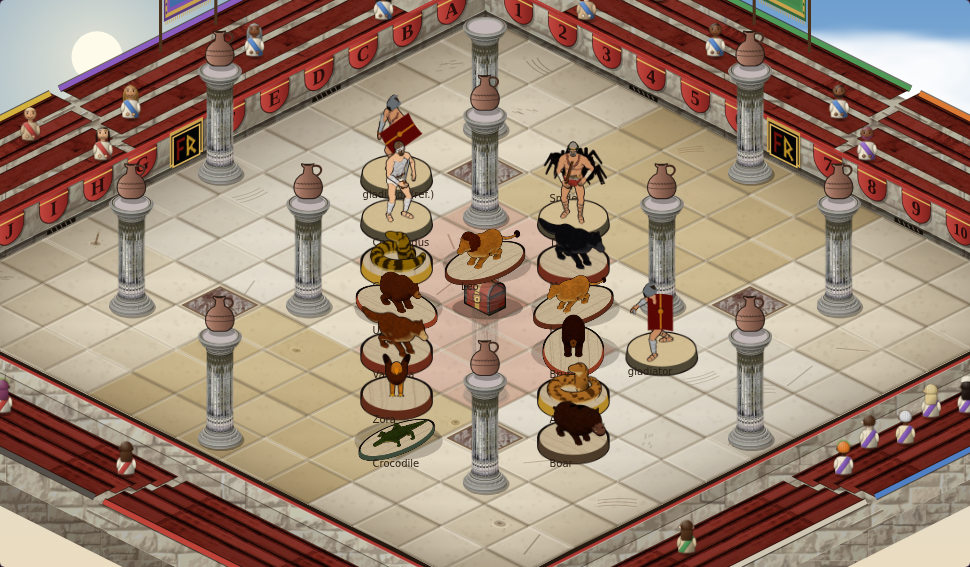
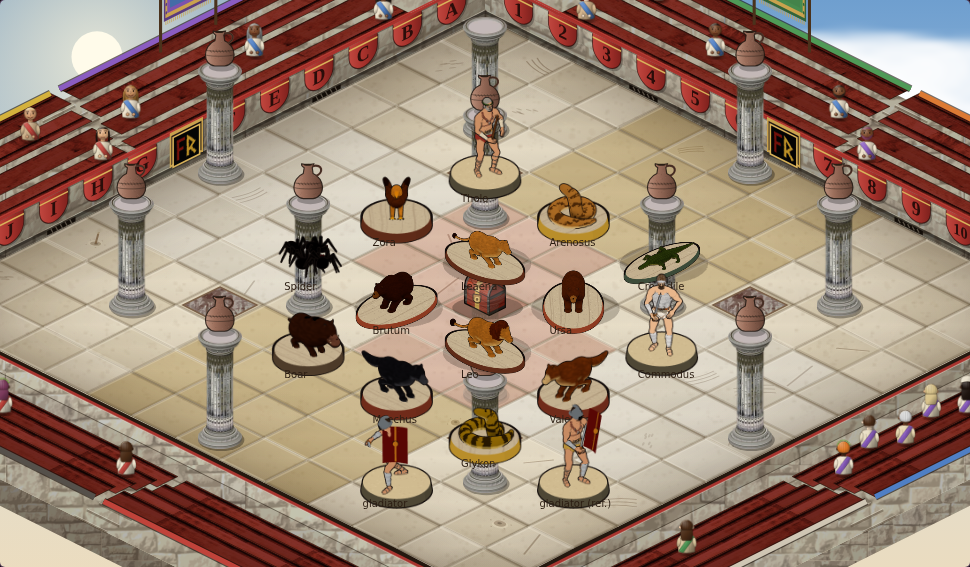
look100: 3D beasts look test (14 beasts, frames, clip) [skip ci]
Claude-Session: https://claude.ai/code/session_01BLtNGuDrMd265uhsDUPs5S

Changed region(s): [[0.2784, 0.1499, 0.7423, 0.8995], [0.6804, 0.6596, 0.7113, 0.6896]]

diff --git a/tools/plans/look100/arena_proto.js b/tools/plans/look100/arena_proto.js
@@ -112,25 +112,26 @@ function railBronze(g,R){const h=R.Hc*0.86,pw=Math.max(1.2,TW*0.028),rt=Math.max
     g.lineCap='round';g.strokeStyle='#4a2e0e';g.lineWidth=rt+1;g.beginPath();g.moveTo(p.x,p.y-h+0.8);g.lineTo(q.x,q.y-h+0.8);g.stroke();
     g.strokeStyle='#b07a32';g.lineWidth=rt;g.beginPath();g.moveTo(p.x,p.y-h);g.lineTo(q.x,q.y-h);g.stroke();
     g.strokeStyle='rgba(255,226,150,.9)';g.lineWidth=Math.max(0.7,rt*0.35);g.beginPath();g.moveTo(p.x+iv.x,p.y-h-rt*0.25+iv.y);g.lineTo(q.x+iv.x,q.y-h-rt*0.25+iv.y);g.stroke();g.lineCap='butt'}}
-function railBalus(g,R){const h=R.Hc*0.94,pl=h*0.2,cp=Math.max(1.6,h*0.17);const iv=inV(R,TW*0.05);const stoneC=ar91Mat().cap;
+function railBalus(g,R){const h=R.Hc*0.98,pl=Math.max(1.6,h*0.2),cp=Math.max(1.8,h*0.2);const iv=inV(R,TW*0.05);const capC=hex(ar91Mat().cap),lt=rgb(mix(capC,[255,252,240],0.55)),md=rgb(mix(capC,[236,226,206],0.3)),dk=rgb(mix(capC,[70,52,32],0.55));
   for(const [p,q] of segs(R)){const L=Math.hypot(q.x-p.x,q.y-p.y);
-    g.fillStyle='rgba(30,18,8,.25)';ar91Path(g,[p,q,{x:q.x+TW*0.06,y:q.y+TW*0.04},{x:p.x+TW*0.06,y:p.y+TW*0.04}]);g.fill();
-    /* the plinth */
-    ar91Stone(g,[{x:p.x,y:p.y-pl},{x:q.x,y:q.y-pl},q,p],R.left?'rgba(255,248,230,.06)':'rgba(40,28,16,.22)');
-    /* balusters: a vase profile (neck · belly · foot) */
-    const bw=Math.max(2.2,TW*0.05),step=Math.max(bw*1.9,R.tile*0.16),n=Math.max(2,Math.floor(L/step));
+    g.fillStyle='rgba(30,18,8,.28)';ar91Path(g,[p,q,{x:q.x+TW*0.06,y:q.y+TW*0.04},{x:p.x+TW*0.06,y:p.y+TW*0.04}]);g.fill();
+    /* the dark void behind the balusters (the near wall in shadow) */
+    g.fillStyle='rgba(36,24,14,.55)';ar91Path(g,[{x:p.x,y:p.y-h},{x:q.x,y:q.y-h},q,p]);g.fill();
+    /* the plinth: a solid light stone strip */
+    ar91Path(g,[{x:p.x,y:p.y-pl},{x:q.x,y:q.y-pl},q,p]);g.fillStyle=md;g.fill();g.strokeStyle='rgba(40,28,16,.55)';g.lineWidth=0.7;g.stroke();
+    /* balusters: a vase profile (neck · belly · foot), lit from the left */
+    const bw=Math.max(2.6,TW*0.065),step=Math.max(bw*1.55,R.tile*0.13),n=Math.max(2,Math.floor(L/step));
     for(let i=0;i<n;i++){const t=(i+0.5)/n,x=p.x+(q.x-p.x)*t,y=p.y+(q.y-p.y)*t-pl,bh=h-pl-cp;
-      const gr=g.createLinearGradient(x-bw/2,0,x+bw/2,0);gr.addColorStop(0,'rgba(255,252,240,1)');gr.addColorStop(.5,stoneC);gr.addColorStop(1,'rgba(120,100,76,1)');
-      g.fillStyle=gr;g.beginPath();g.moveTo(x-bw*0.42,y);g.lineTo(x+bw*0.42,y);g.quadraticCurveTo(x+bw*0.62,y-bh*0.35,x+bw*0.22,y-bh*0.72);g.lineTo(x+bw*0.3,y-bh);g.lineTo(x-bw*0.3,y-bh);g.lineTo(x-bw*0.22,y-bh*0.72);g.quadraticCurveTo(x-bw*0.62,y-bh*0.35,x-bw*0.42,y);g.closePath();g.fill();
-      g.strokeStyle='rgba(60,44,28,.45)';g.lineWidth=0.6;g.stroke()}
-    /* the coping: front face + top face toward the sand */
-    const T0={x:p.x,y:p.y-h},T1={x:q.x,y:q.y-h};ar91Stone(g,[{x:T0.x,y:T0.y},{x:T1.x,y:T1.y},{x:T1.x,y:T1.y+cp},{x:T0.x,y:T0.y+cp}],R.left?'rgba(255,248,230,.06)':'rgba(40,28,16,.2)');
-    ar91Stone(g,[{x:T0.x+iv.x,y:T0.y+iv.y},{x:T1.x+iv.x,y:T1.y+iv.y},T1,T0],'rgba(255,250,236,.25)');
-    g.strokeStyle='rgba(40,28,16,.5)';g.lineWidth=0.8;g.beginPath();g.moveTo(T0.x,T0.y+cp);g.lineTo(T1.x,T1.y+cp);g.stroke();
-    g.strokeStyle='rgba(255,250,236,.6)';g.beginPath();g.moveTo(T0.x,T0.y+0.5);g.lineTo(T1.x,T1.y+0.5);g.stroke();
-    /* end posts (pedestals) at both ends of a run */
-    for(const E of [p,q]){const pw=bw*1.5;ar91Stone(g,[{x:E.x-pw,y:E.y-h-cp*0.4},{x:E.x+pw,y:E.y-h-cp*0.4},{x:E.x+pw,y:E.y},{x:E.x-pw,y:E.y}],'rgba(40,28,16,.12)');
-      g.strokeStyle='rgba(40,28,16,.45)';g.lineWidth=0.8;g.strokeRect(E.x-pw,E.y-h-cp*0.4,pw*2,h+cp*0.4)}}}
+      const gr=g.createLinearGradient(x-bw/2,0,x+bw/2,0);gr.addColorStop(0,lt);gr.addColorStop(.55,md);gr.addColorStop(1,dk);
+      g.fillStyle=gr;g.beginPath();g.moveTo(x-bw*0.4,y);g.lineTo(x+bw*0.4,y);g.quadraticCurveTo(x+bw*0.7,y-bh*0.38,x+bw*0.2,y-bh*0.74);g.lineTo(x+bw*0.34,y-bh);g.lineTo(x-bw*0.34,y-bh);g.lineTo(x-bw*0.2,y-bh*0.74);g.quadraticCurveTo(x-bw*0.7,y-bh*0.38,x-bw*0.4,y);g.closePath();g.fill();
+      g.strokeStyle='rgba(50,36,22,.6)';g.lineWidth=0.6;g.stroke()}
+    /* the coping (handrail): solid light stone, front face + a lit top edge */
+    const T0={x:p.x,y:p.y-h},T1={x:q.x,y:q.y-h};ar91Path(g,[{x:T0.x+iv.x*0.5,y:T0.y+iv.y*0.5},{x:T1.x+iv.x*0.5,y:T1.y+iv.y*0.5},T1,T0]);g.fillStyle=lt;g.fill();
+    ar91Path(g,[T0,T1,{x:T1.x,y:T1.y+cp},{x:T0.x,y:T0.y+cp}]);g.fillStyle=md;g.fill();g.fillStyle=R.left?'rgba(255,250,236,.12)':'rgba(40,28,16,.18)';g.fill();
+    g.strokeStyle='rgba(40,28,16,.6)';g.lineWidth=0.7;g.beginPath();g.moveTo(T0.x,T0.y+cp);g.lineTo(T1.x,T1.y+cp);g.stroke();
+    /* end pedestals */
+    for(const E of [p,q]){const pw=bw*0.9;ar91Path(g,[{x:E.x-pw,y:E.y-h-cp*0.5},{x:E.x+pw,y:E.y-h-cp*0.5},{x:E.x+pw,y:E.y},{x:E.x-pw,y:E.y}]);g.fillStyle=md;g.fill();g.strokeStyle='rgba(40,28,16,.55)';g.lineWidth=0.7;g.stroke();
+      g.fillStyle=lt;g.fillRect(E.x-pw-0.5,E.y-h-cp*0.5-1,pw*2+1,1.5)}}}
 function railParapet(g,R){const h=R.Hc*0.96,wall=h*0.62,iv=inV(R,TW*0.06);
   for(const [p,q] of segs(R)){const L=Math.hypot(q.x-p.x,q.y-p.y);
     g.fillStyle='rgba(30,18,8,.25)';ar91Path(g,[p,q,{x:q.x+TW*0.06,y:q.y+TW*0.04},{x:p.x+TW*0.06,y:p.y+TW*0.04}]);g.fill();
@@ -153,7 +154,7 @@ function railParapet(g,R){const h=R.Hc*0.96,wall=h*0.62,iv=inV(R,TW*0.06);
 const RAIL={bronze:railBronze,balus:railBalus,parapet:railParapet};
 ar91Under=function(g){const r=B.under.apply(this,arguments);if(PR.rail&&!ar91Lud()){try{for(const R of railEdges())RAIL[PR.rail](g,R)}catch(e){console.error(e)}}return r};
 /* ---------- switch + measure ---------- */
-PR.set=function(o){Object.assign(PR,o);AR91.ver++;for(const k in AR91TEX)delete AR91TEX[k];try{if(typeof Z99!=='undefined'&&Z99&&Z99.cache)Z99.cache=null}catch(e){}draw();draw()};
+PR.set=function(o){Object.assign(PR,o);for(const id of ['cardShow','bubbles','wbubs','tip']){const e=document.getElementById(id);if(e){if(id==='tip')e.style.display='none';else e.innerHTML=''}}AR91.ver++;for(const k in AR91TEX)delete AR91TEX[k];try{if(typeof Z99!=='undefined'&&Z99&&Z99.cache)Z99.cache=null}catch(e){}draw();draw()};
 /* one cached frame vs one rebuild (all static layers re-baked) */
 PR.cost=function(n=12){const cachedA=[],rebuildA=[];for(let i=0;i<n;i++){draw();let t=performance.now();draw();cachedA.push(performance.now()-t);AR91.ver++;t=performance.now();draw();rebuildA.push(performance.now()-t)}
   const med=a=>{a=a.slice().sort((x,y)=>x-y);return +a[a.length>>1].toFixed(2)};return {cached:med(cachedA),rebuild:med(rebuildA),under:+(AR91.ms[0]||0).toFixed(2),top:+(AR91.ms[1]||0).toFixed(2),texMs:+(PR.texMs||0).toFixed(1)}};

diff --git a/tools/plans/look100/beast_comp.js b/tools/plans/look100/beast_comp.js
@@ -49,11 +49,11 @@
   const clearOf = (B) => (r, c) => { for (const [or, oc] of B.occ) { const dx = (oc - or) - (c - r), dy = (oc + or) - (c + r); if (Math.abs(dx) <= 1 && dy >= 1 && dy <= 4) return false; } return true; };
   function board(B, shot, SH, G) {
     const free = freeTile(B), clr = clearOf(B); const inV = (p) => p.x > B.canvas.x + 50 && p.x < B.canvas.x + B.canvas.w - 50 && p.y > B.canvas.y + 90 && p.y < B.canvas.y + B.canvas.h - 25;
-    const tiles = []; for (let r = 1; r < B.N - 1; r++) for (let c = 1; c < B.N - 1; c++) { const p = B.tiles[r + ',' + c]; if (free(r, c) && clr(r, c) && inV(p)) tiles.push({ r, c, p }); }
+    const tiles = []; for (let r = 1; r < B.N - 1; r++) for (let c = 1; c < B.N - 1; c++) { const p = B.tiles[r + ',' + c]; if (free(r, c) && r % 2 === 1 && c % 2 === 1 && inV(p)) tiles.push({ r, c, p }); }
     /* spread them: greedy farthest-apart from the centre outwards */
     const want = [...ORDER, 'glad', 'glad2']; const pick = []; const cx = B.canvas.x + B.canvas.w / 2, cy = B.canvas.y + B.canvas.h * 0.55;
     tiles.sort((a, b) => Math.hypot(a.p.x - cx, a.p.y - cy) - Math.hypot(b.p.x - cx, b.p.y - cy));
-    for (const t of tiles) { if (pick.length >= want.length) break; if (pick.some(q => Math.abs(q.r - t.r) + Math.abs(q.c - t.c) < 2)) continue; pick.push(t); }
+    for (const t of tiles) { if (pick.length >= want.length) break;  pick.push(t); }
     const c = cnv(B.canvas.w, B.canvas.h); const g = c.getContext('2d'); g.drawImage(shot, B.canvas.x, B.canvas.y, B.canvas.w, B.canvas.h, 0, 0, B.canvas.w, B.canvas.h);
     const items = pick.map((t, i) => ({ t, k: want[i] })).sort((a, b) => a.t.p.y - b.t.p.y);
     const yaws = [1, 7, 0, 1, 7, 1, 0, 7, 1, 0, 1, 7, 1, 0, 1, 7];

diff --git a/tools/plans/look100/NOTES-look-beasts.md b/tools/plans/look100/NOTES-look-beasts.md
@@ -1,0 +1,119 @@
+# v1.0 LOOK TEST — beasts as 3D tokens with animation frames
+
+These are pictures only, not game code. Nothing in `src/` or `tools/art/rig92` was touched, and nothing is committed.
+
+## How the beasts are built
+- **Quadrupeds, snakes, the eagle and spiders: `beast_rig.js`.**
+  - Each animation frame is one signed-distance sculpt, measured in millimetres of the real mini.
+  - The sculpt is a smooth union of tapered capsules and oriented ellipsoids. It is meshed with surface nets, using the same method as `body100.js` and `r6_sculpt.js`.
+  - Each mesh is then baked like the r6 sculpts: ambient occlusion from the distance field, darker cavities, a dry-brushed highlight on convex edges, and fur / mane / feather / scale / band patterns.
+  - Drawing uses a 4-step toon ramp, an ink outline and a sun from the upper left, on his oval or round bases.
+- **Tholo and Commodus: `anim_rig.js` `humanoid()`.** They reuse the rig92 gladiator body with the murmillo's 23 frames (no shield):
+  - Tholo: laurel, club, grey beard.
+  - Commodus: silver lorica, galea, manica, greaves, sword.
+- **Sheets:** 8 MINI_YAW facings per frame (no mirroring), one row per frame, the same format as minis8 / crew96.
+- **Frame set per beast (23 frames):**
+  - idle 4
+  - walk 6 (for Zora this is the flight flap)
+  - attack 5
+  - hit 3
+  - die 5
+- **Spiders: 14 frames, with no base.** They are an offering effect, not a piece on the board.
+
+### Inventory and what each beast is modelled on
+| key | what | his reference art | base we used | attack |
+|---|---|---|---|---|
+| leo | lion (NPCT lion, maned) | minis8_leo, npccard82_leo, npcback82p_leo | oval 72×42 mm (his MINI_A footprint 58) | pounce |
+| leaena | lioness | minis8_leaena, npccard82/npcback82p_leaena | oval 72×42 | pounce |
+| ursa, brutum | bears (named per arena by 250-v98bears) | minis8_ursa/brutum, rtok ursa/brutum | oval 75×47 (his footprint 63) | maul (rears up, swipes, slams) |
+| valencia, moechus | wolves (brown / dark) | minis8_valencia/moechus, rtok | round 25.4 | lunge + bite + shake |
+| glykon, arenosus | snakes (banded / diamond) | minis8_glykon/arenosus, rtok | round 25.4 | coil, then strike with the jaw open |
+| zora | the golden eagle (NPCT zora, flies) | minis8_zora, npccard82/npcback82p_zora | round 25.4 | dive with talons forward |
+| tholo | humanoid boss | minis8_tholo, npccard82/npcback82p_tholo | round 25.4 | the gladiator attack, with a club |
+| commodus | humanoid boss | minis8_commodus, npccard82/npcback82p_commodus | round 25.4 | the gladiator attack, with a sword |
+| boar | custom-beast kind (STOCK_KIND, rtok boar), no mini | rtok boar | round 25.4 | gore |
+| croc | custom-beast kind + Naumachia hazard (rtok croc), no mini | rtok croc | oval 75×34 | jaw snap + death roll |
+| spider | the Spiders offering (11-extra) | rtok spiders | none | rears up |
+
+## Files
+| file | what |
+|---|---|
+| `beast_vs_minis.webp` | his mini (8 facings) above ours (idle, 8 facings) for every beast, at the same 3.143 px/mm |
+| `beast_strip_<key>.png` | one per beast: actions as rows, frames as columns, facings 1 and 3 |
+| `beast_<key>_sheet.webp` | the game-format sheets (all frames × 8 facings) |
+| `beast_board.png` | every beast on one real board crop with two gladiators for reference. Round bases are 0.8 tile; long bases are 1.1 tile |
+| `beast_clip_pounce.webp`, `beast_clip_frames.png` | Leo pounces on a gladiator: 46 frames × 40 ms. The pose steps every 120 ms while the base glides; the gladiator plays hit0–2 |
+| `beast_rig.js`, `beast_rig.html`, `beast_make.js`, `beast_humanoid.js`, `beast_comp.js`, `beast_board_shot.js`, `beast_board_empty.png`, `beast_board.json`, `beast_report.json` | how it was made |
+
+**Re-run order:**
+1. `node tools/plans/look100/beast_make.js render` (about 5 min)
+2. `node tools/plans/look100/beast_humanoid.js` (about 9 min)
+3. `node tools/plans/look100/beast_board_shot.js`
+4. `node tools/plans/look100/beast_make.js comp`
+
+## Sizes and times
+Sheets are rendered at the minis' 3.143 px/mm (×2 supersample) on SwiftShader, the CPU WebGL in headless Chromium. "Decoded" means cells × w × h × 4 bytes.
+
+| beast | cell | frames | WebP (q 0.8) | decoded, all | decoded, idle + walk | render |
+|---|---|---|---|---|---|---|
+| leo | 256×219 | 23 | 736 KB | 39.4 MB | 17.1 MB | 43 s (sculpting 6.4 s) |
+| leaena | 236×190 | 23 | 701 KB | 31.5 MB | 13.7 MB | 33 s |
+| ursa / brutum | 240×204 | 23 | 638 / 593 KB | 34.4 MB | 14.9 MB | 43 / 34 s |
+| valencia / moechus | 122×107 | 23 | 278 / 227 KB | 9.2 MB | 4.0 MB | 17–18 s |
+| glykon / arenosus | 110×87 | 23 | 300 / 293 KB | 6.7 MB | 2.9 MB | 15 s |
+| zora | 124×163 | 23 | 286 KB | 14.2 MB | 6.2 MB | 17 s |
+| boar | 126×106 | 23 | 209 KB | 9.4 MB | 4.1 MB | 15 s |
+| croc | 240×148 | 23 | 524 KB | 24.9 MB | 10.8 MB | 34 s |
+| spider | 50×50 | 14 | 35 KB | 1.1 MB | 0.5 MB | 6 s |
+| tholo / commodus (rig92 body) | 140–142×144 | 23 | 395 / 430 KB | 14.2–14.4 MB | 6.2 MB | 256 / 266 s (gear shells re-skinned per pose; rig92 is slower) |
+
+- **Meshes:** 12k–23k triangles per frame.
+- **Sculpting:** 0.06–0.3 s per frame. The rest of each render is the software rasteriser at about 0.5 s per facing; the gladiator round measured raster 523 ms per cell here.
+- **Memory is set by the big beasts.** Lions, bears and the croc are rendered at full mini resolution but drawn on the board at 0.43–0.51 × that size, because a long base is capped at 1.1 tile. Rendering them at the size they are drawn would cut both memory and WebP size by about 4×: a lion would drop to roughly 10 MB decoded and 180 KB on disk.
+- **Idle + walk always loaded, every beast once:** about 108 MB at today's resolution; about 30 MB rendered at drawn size.
+- **The clip:** 106 KB.
+
+## What falls short of his minis
+1. **Detail and silhouette.**
+   - His minis are real sculpts with fur strands, faces and muscle definition; ours are smooth capsule-and-ellipsoid blobs with painted noise.
+   - The lion's mane is a dark cap rather than a flowing mane, and the faces have no expression.
+   - At board size (about 40–90 px) the gap narrows. Beside his minis at 1:1 it is obvious.
+2. **Colour.**
+   - Our bears and Moechus come out darker and more saturated than his (his bear is a lighter tan-brown).
+   - The lions are more orange than his golden sand colour.
+   - His bases are dark textured sand with a coloured rim; ours are lighter.
+3. **Poses.**
+   - The bear's maul rears up, but the front paws are hidden inside the body.
+   - Zora's idle has the wings folded, while his mini has them spread mid-flight. The flap frames read better than the perch.
+   - Tholo has no cape and the same height as a gladiator; his mini is about 13% taller and much bulkier. This needs the scale option from the other agent's rig100.
+4. **Scale on the board.**
+   - With long bases capped at 1.1 tile, the lions and bears end up small next to the gladiators. Even at the old base 0.8 tile, the gladiator looks bigger than a lion.
+   - The other agent's +15% figure scale is not applied to the reference gladiators here: these sheets have the figure at 1.0 on a 0.8-tile base.
+5. **Deaths.** The die frames are a generic fall onto the side; there is no blood or pose variety.
+6. **Not built.**
+   - Croc and boar have no mini of his to match.
+   - Spiders have no hit reaction on the target.
+   - The lion's pounce moves the base only 0.36 tile toward the gladiator and back; the board rule (base stays in its tile) keeps the leap short.
+
+## Open questions (multiple choice)
+1. **Board size of the big beasts (long bases capped at 1.1 tile today):**
+   - a) keep the cap (small lions and bears)
+   - b) let long bases span up to 1.5 tiles, drawn across two tiles
+   - c) cap the base at 1.1 tile but draw the figure +30% over it, the way the gladiators get +15%
+2. **Sculpt detail:**
+   - a) keep the smooth painted look and push only colour and pattern
+   - b) add sculpted fur-tuft and muscle passes (about 3× sculpt time, same sheet size)
+   - c) bake his TTS mini meshes into the same rig (best likeness, needs his bundles rigged)
+3. **Resolution:**
+   - a) render each beast at the size it is drawn on the board (about ¼ memory, softer close-ups)
+   - b) keep the mini resolution (crisper zoom, about 250 MB decoded for everything loaded)
+   - c) two sizes: a small board sheet plus a full-resolution idle row for cards and zoom
+4. **Frame set:**
+   - a) 23 frames for every beast
+   - b) beasts that only scan and strike get fewer: idle 2, walk 4, attack 3, hit 2, die 3 (14 frames, about 40% smaller)
+5. **Tholo:**
+   - a) the rig92 body scaled +13% with a cape and a heavier build
+   - b) his mini rendered to 8 facings with 2D bob/lean for motion
+6. **Spiders:**
+   - a) the modelled sheet as a swarm effect (35 KB)
+   - b) also a board piece with a base, if a custom spider beast should exist
